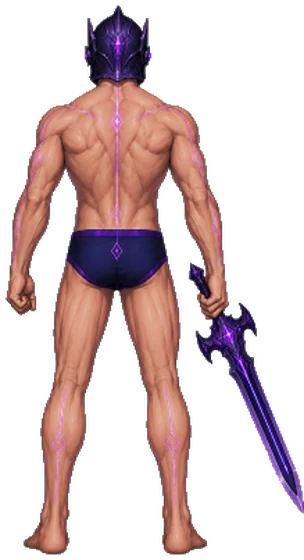
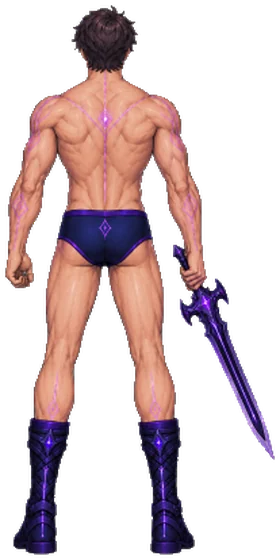
fix(rpg): correct back-facing battle pose gear mapping
Several male back-battle poses were mis-tagged, so the battle hero showed the
wrong gear (e.g. a full loadout rendered a helmet-less pose). Re-verified every
back pose at high zoom and corrected the masks: 2745=W+A+B (no helmet, not the
full set), 2735=W+H, plus added 2743=H+A and 2739=W+B. There is no full-4 back
pose in the art, so a full loadout falls back to the closest 3-piece — now
biased to keep the weapon AND helmet visible (W+H+B) instead of dropping them.
Exact combos render exactly; fallbacks never show unequipped gear (verified for
all 16 combos).

diff --git a/app/components/rpg/rpgAssets.js b/app/components/rpg/rpgAssets.js
@@ -113,7 +113,7 @@ export const HERO_POSE_MASKS = {
 // boss. Keyed by the same 4-bit gear mask. Only male art exists so far; female
 // falls back to the front pose until its back art is added.
 export const HERO_BATTLE_MASKS = {
-  male: [0, 1, 2, 5, 7, 8, 9, 13, 15],
+  male: [0, 1, 2, 5, 6, 7, 8, 9, 11, 12, 13],
   female: [],
 };
 
@@ -165,11 +165,16 @@ export function heroBattlePoseFor(gender, equipment) {
   const avail = HERO_BATTLE_MASKS[g];
   if (!avail || !avail.length) return heroPoseFor(gender, equipment);
   const want = equipMask(equipment);
+  if (avail.includes(want)) {
+    return `/assets/rpg/hero/${g}-battle/${String(want).padStart(2, "0")}.webp`;
+  }
+  // No exact back pose (e.g. no full-4 back art) → closest subset. Maximise
+  // covered pieces, then prefer keeping the most visible ones (weapon, helmet).
   let best = 0;
   let bestScore = -1;
   for (const m of avail) {
     if ((m & ~want) !== 0) continue; // shows gear that isn't equipped — skip
-    const score = popcount(m & want) * 2 + (m & 8 ? 1 : 0);
+    const score = popcount(m & want) * 10 + (m & 8 ? 2 : 0) + (m & 4 ? 1 : 0);
     if (score > bestScore) {
       bestScore = score;
       best = m;
